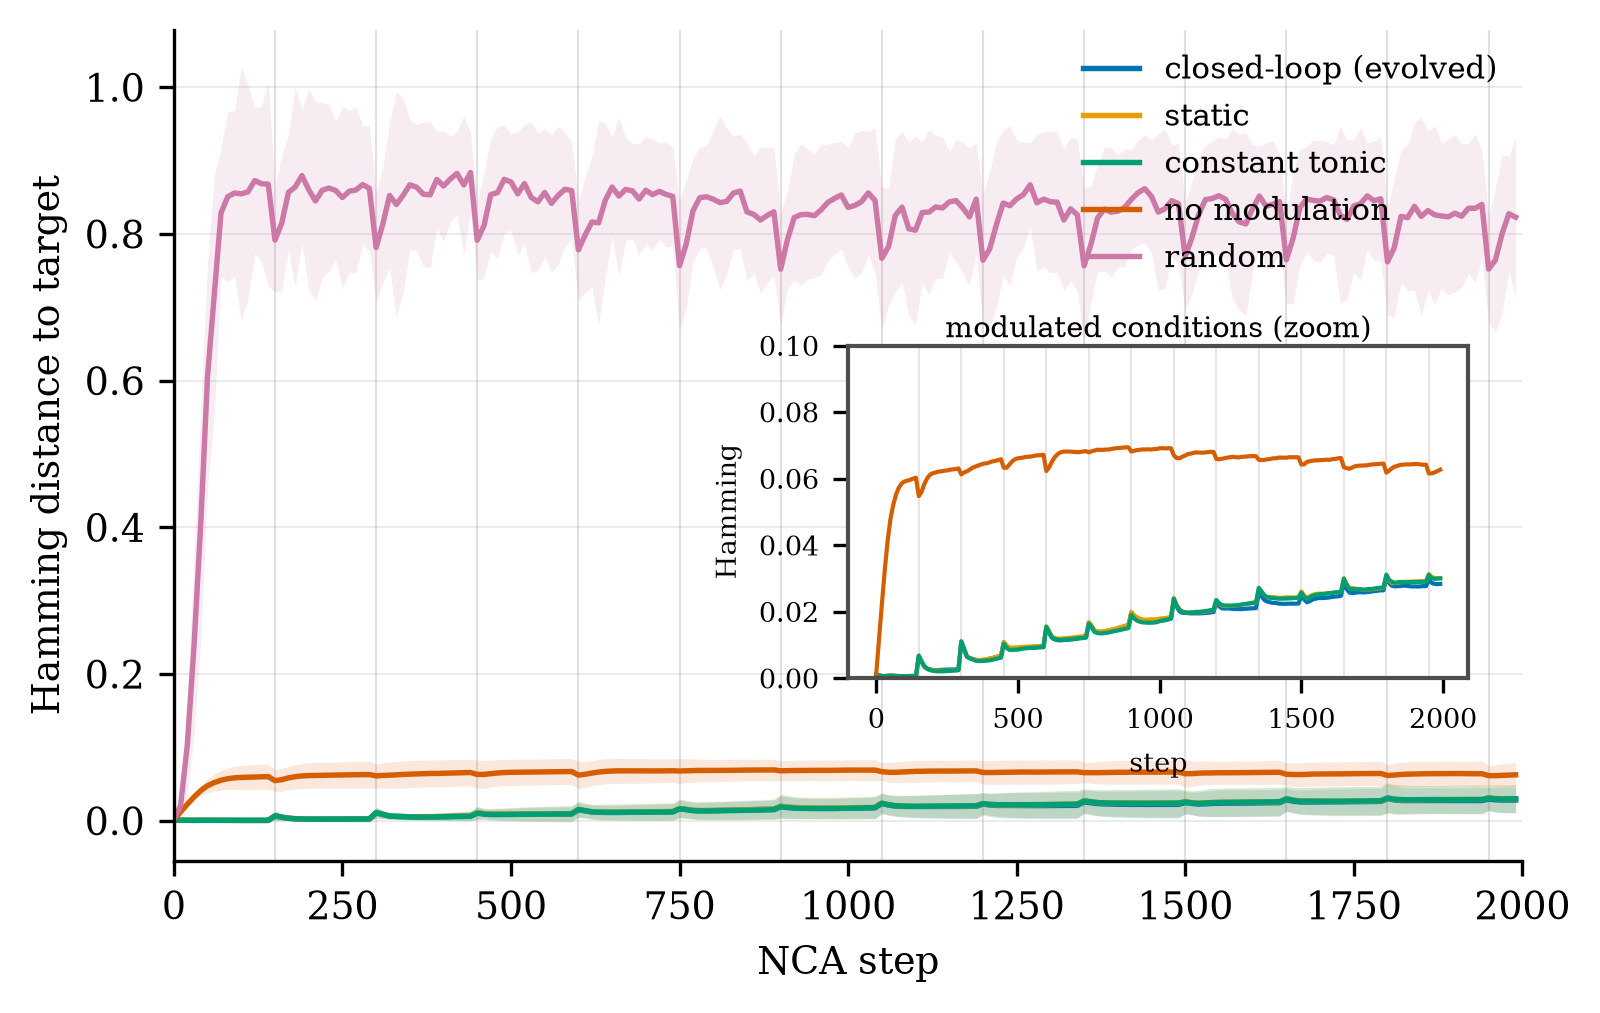
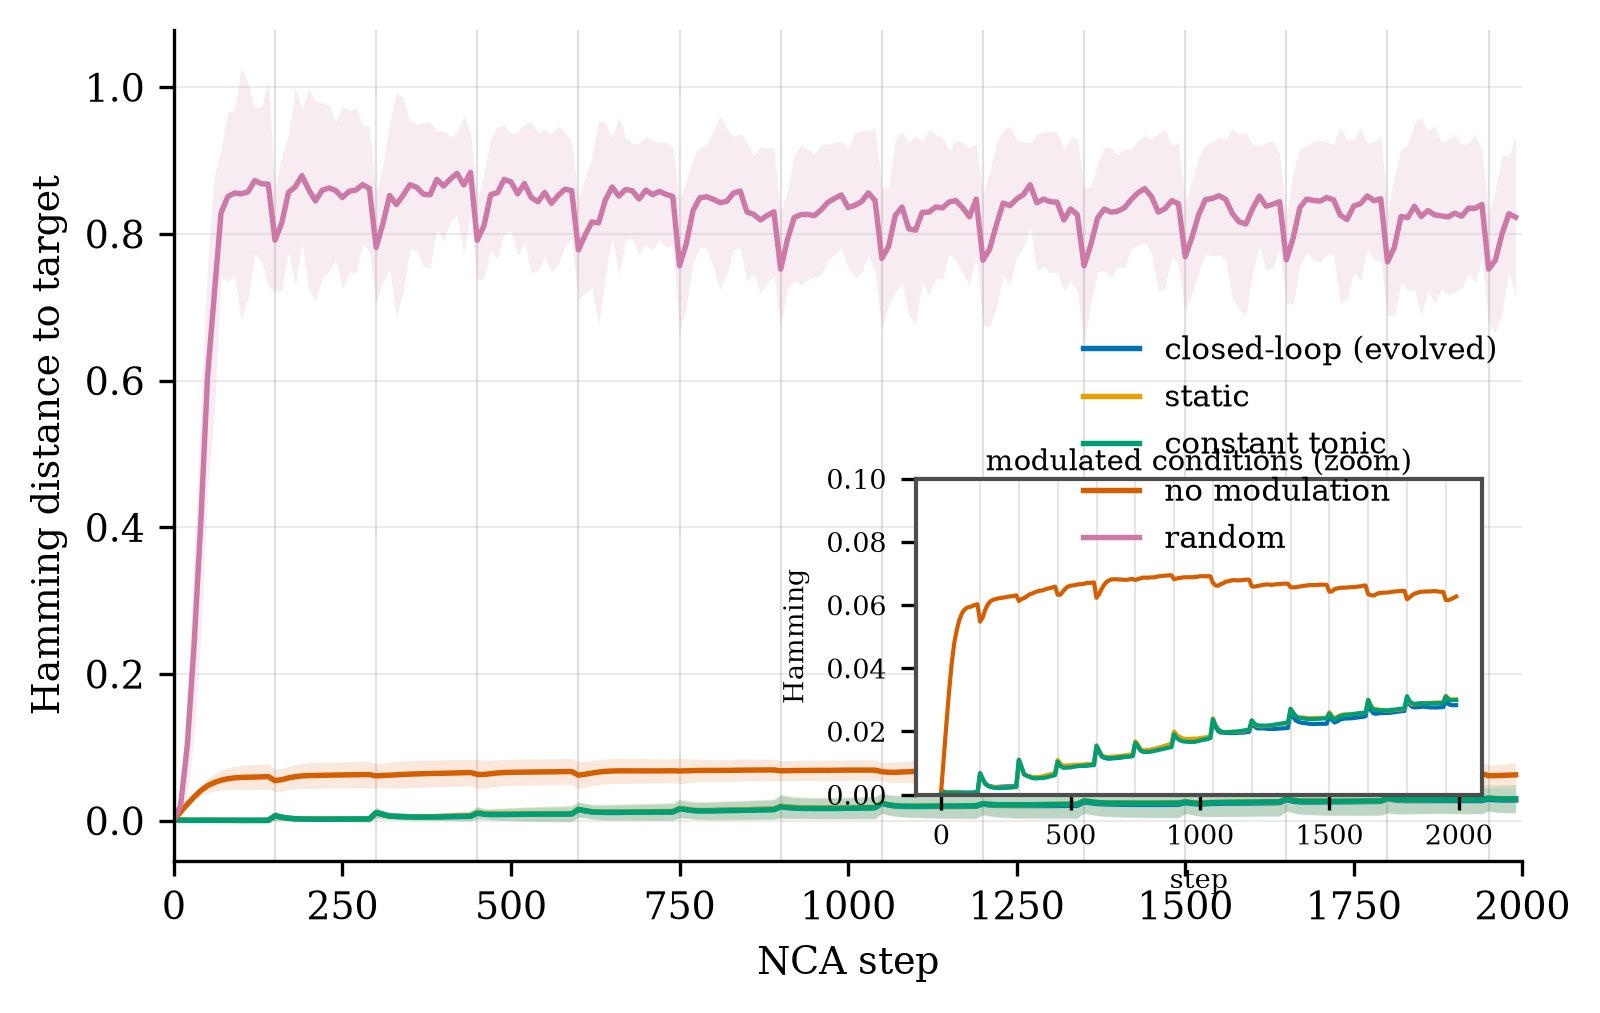
fix(paper): eliminate legend/inset/annotation overlaps in fig1/2/4
Per visual review (image analysis confirmed PASS on all):
- fig1: legend moved lower-right (was overlapping y-label); inset shrunk +
  moved to true upper-right corner (was overlapping multi-site curves).
- fig2: legend moved center-right (was overlapping random curve at ~0.8);
  inset moved lower-right (was overlapping random's variance band).
- fig4: legend moved upper-right (curves descend, so empty there); annotation
  pulled up-left away from dense gen 250-300 region; y-limit widened so
  y-label isn't cropped.
- fig3: normalized panel label capitalization + spacing.

diff --git a/paper_drafts/make_figures.py b/paper_drafts/make_figures.py
@@ -66,18 +66,20 @@ ax.set_xticks(radii); ax.set_xticklabels(radii)
 ax.set_xlabel("Lesion radius (cells)")
 ax.set_ylabel("Final Hamming distance to target")
 ax.set_ylim(0, None)
-ax.legend(frameon=False, ncol=1, fontsize=7.5, loc="upper left",
-          handlelength=2.2, columnspacing=1.0)
+# Curves rise left-to-right, so lower-right (below the high-radius points) is clear.
+ax.legend(frameon=False, ncol=2, fontsize=7, loc="lower right",
+          handlelength=2.0, columnspacing=1.0, borderpad=0.4)
 ax.grid(True, which="both", axis="y", alpha=0.25, lw=0.5)
 
-# Inset: debris/scar frame, upper-right corner (curves are low there). Bordered.
+# Inset: debris/scar frame, upper-right corner (curves are low there). Small + bordered.
 rec = imageio.mimread("results_local/e0_lr1e3/recovery.gif")
 frame = rec[-1][:, 0:96]  # last frame, first recovery sample
-axin = ax.inset_axes([0.62, 0.50, 0.34, 0.45])
+axin = ax.inset_axes([0.70, 0.62, 0.27, 0.34])
 axin.imshow(frame, interpolation="nearest")
 axin.set_xticks([]); axin.set_yticks([])
 for spine in axin.spines.values():
-    spine.set_visible(True); spine.set_linewidth(0.8); spine.set_color("0.4")
+    spine.set_visible(True); spine.set_linewidth(1.0); spine.set_color("0.3")
+axin.patch.set_facecolor("white"); axin.patch.set_alpha(1.0)
 axin.set_title("post-regrowth debris\n+ scar tissue", fontsize=6.5, pad=2)
 fig.savefig(OUT / "fig1_recovery_vs_radius.png")
 plt.close(fig)
@@ -109,13 +111,14 @@ for t in range(150, 2000, 150):
 ax.set_xlabel("NCA step")
 ax.set_ylabel("Hamming distance to target")
 ax.set_xlim(0, 2000)
-ax.legend(frameon=False, fontsize=7.5, loc="upper right", ncol=1,
+# Modulated curves sit at ~0.03 (lower-left clear); random is up at ~0.8 (upper).
+ax.legend(frameon=False, fontsize=7.5, loc="center right", ncol=1,
           handlelength=1.8, borderpad=0.3)
 ax.grid(True, axis="y", alpha=0.25, lw=0.5)
 
-# Inset: zoom on the low-Hamming range (the closed/static/constant story lives here).
-# Bordered, own readable labels, own legend-free (shares colors), omit random.
-axin = ax.inset_axes([0.50, 0.22, 0.46, 0.40])
+# Inset: zoom on the low-Hamming range, lower-right (random's variance band is
+# narrower there than mid-canvas). Bordered, opaque, own readable labels.
+axin = ax.inset_axes([0.55, 0.08, 0.42, 0.38])
 for cond, color, ls, lab in order[:4]:  # exclude random
     steps = sorted(next(iter(runs[cond].values())).keys())
     M = np.array([[series[s] for s in steps] for series in runs[cond].values()])
@@ -139,8 +142,8 @@ print("fig2 done")
 
 # ---------------------------------------------------------------- fig3: fission panels
 frames = imageio.mimread("results_local/e2_hard_20260730/rollout_closed_loop.gif")
-panels = [(104, "a", "pre-lesion (1040)"), (106, "b", "midline lesion (1060)"),
-          (108, "c", "split (1080)"), (110, "d", "two growth fronts (1100)")]
+panels = [(104, "a", "Pre-lesion (1040)"), (106, "b", "Midline lesion (1060)"),
+          (108, "c", "Split (1080)"), (110, "d", "Two growth fronts (1100)")]
 fig, axes = plt.subplots(1, 4, figsize=(6.0, 1.9))
 for ax, (fi, lab, title) in zip(axes, panels):
     ax.imshow(frames[fi][16:80, 16:80], interpolation="nearest")
@@ -161,12 +164,14 @@ ax.plot(gen, mean, color=C_GREY, lw=0.8, label="population mean")
 ax.plot(gen, big, color=C_ORANGE, lw=0.8, alpha=0.55, label="best in generation")
 ax.plot(gen, bsf, color=C_BLUE, lw=1.7, label="best so far")
 ax.axhline(0.0205, color=C_RED, ls="--", lw=1.0, label="neutral controller (0.0205)")
-ax.annotate("0.0135", xy=(299, 0.0135), xytext=(228, 0.0140),
+# Annotation pulled up-left, away from the dense gen 250-300 region.
+ax.annotate("best = 0.0135", xy=(299, 0.0135), xytext=(180, 0.0162),
             arrowprops=dict(arrowstyle="->", lw=0.7, color="0.3"), fontsize=8)
 ax.set_xlabel("Generation")
 ax.set_ylabel("Event-weighted fitness (Hamming)")
-ax.set_ylim(0.012, 0.022)
-ax.legend(frameon=False, fontsize=7.5, loc="lower left", handlelength=1.8)
+ax.set_ylim(0.012, 0.023)
+# Curves descend left-to-right; upper-right is empty after gen ~50.
+ax.legend(frameon=False, fontsize=7.5, loc="upper right", handlelength=1.8)
 ax.grid(True, axis="y", alpha=0.25, lw=0.5)
 fig.savefig(OUT / "fig4_evolution_trajectory.png")
 plt.close(fig)
